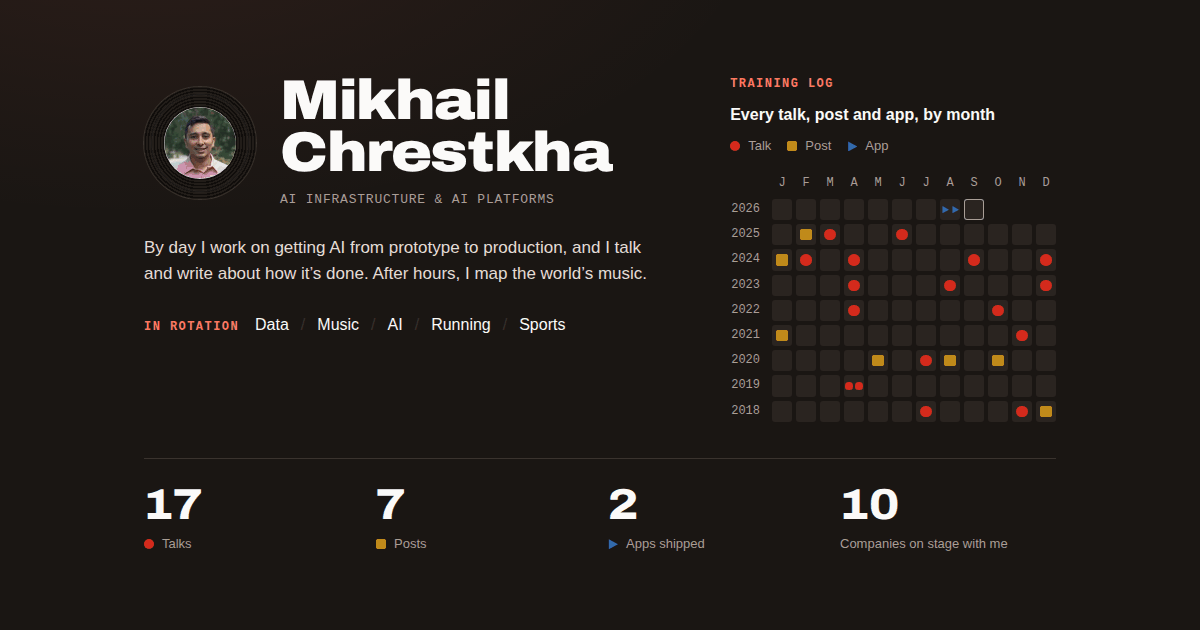
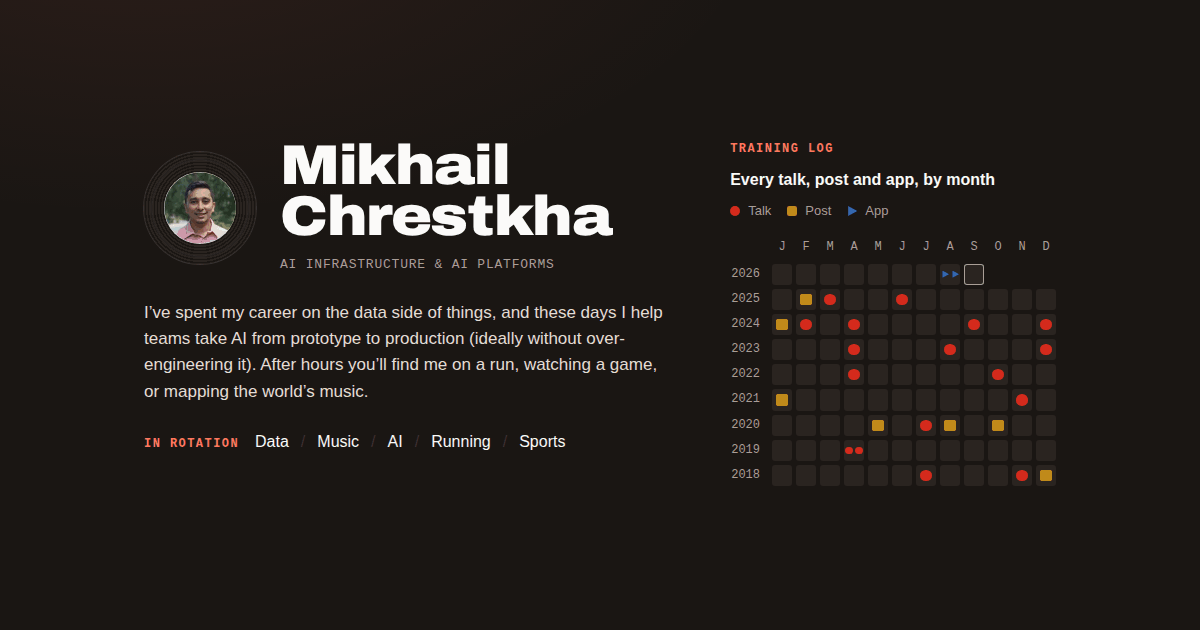
Drop the totals and the filter; write the copy in my own voice
- The stat line is gone from the stage, and the Talks & writing line no
  longer leads with counts. It now names both kinds with their marks
  (● talks and ■ posts since 2018), so the coloured type markers in the list
  stay keyed without a filter.
- The All/Talks/Posts filter and its CSS are gone; every entry keeps its
  coloured type marker.
- The intro is rewritten from how I write on LinkedIn and Medium: plain,
  first person, with an aside in brackets, and my own advice about not
  over-engineering production AI. It now names running and watching a game
  alongside the music maps.
- The joining "&" in company lists is held to its neighbours so a line
  never ends on it; the front-matter one-liners get curly apostrophes.
- The link-preview card is re-rendered without the stat line.

Checked again with Jekyll 4.4 and GitHub Pages' Jekyll 3.10 (identical bar
jekyll-seo-tag's own markup), from 320px to 1440px with no horizontal
overflow, and the tooltips, keyboard focus and month-to-entry links.

Claude-Session: https://claude.ai/code/session_01R3RWYAup9Azc9xDMDqUTXQ

diff --git a/_layouts/default.html b/_layouts/default.html
@@ -19,7 +19,7 @@
     <link rel="preload" href="{{ '/assets/fonts/archivo.woff2' | relative_url }}" as="font" type="font/woff2" crossorigin>
     <style>
       /* ---------------------------------------------------------------
-         Archivo, self-hosted, for headings and figures only. Subset to
+         Archivo, self-hosted, for headings only. Subset to
          Basic Latin and pinned to one width (112, semi-expanded) with
          weight left variable from 700 to 900: 11.8 KB, down from 90 KB for
          the full family. It is the face Sound Travels and Hip Hop Lineage
@@ -137,7 +137,7 @@
       }
 
       a { color: var(--accent); }
-      a:focus-visible, input:focus-visible + label {
+      a:focus-visible {
         outline: 2px solid var(--accent);
         outline-offset: 3px;
         border-radius: 2px;
@@ -210,14 +210,12 @@
       }
       .stage .kicker { color: var(--stage-accent); }
       .stage a { color: var(--stage-ink); }
-      .stage a:focus-visible, .stage input:focus-visible + label { outline-color: var(--stage-accent); }
+      .stage a:focus-visible { outline-color: var(--stage-accent); }
 
       .stage-inner {
         display: grid;
         grid-template-columns: minmax(0, 1fr) auto;
-        grid-template-areas:
-          "who   log"
-          "stats stats";
+        grid-template-areas: "who log";
         gap: var(--space-6) var(--space-7);
         padding-block: var(--space-7) var(--space-6);
       }
@@ -467,35 +465,6 @@
       .grid td:nth-child(-n+4) .tip { left: 0; transform: none; }
       .grid td:nth-child(n+11) .tip { left: auto; right: 0; transform: none; }
 
-      /* --- the stat line ---------------------------------------------- */
-
-      .stats {
-        grid-area: stats;
-        display: grid;
-        grid-template-columns: repeat(4, minmax(0, 1fr));
-        gap: var(--space-4);
-        margin: 0;
-        padding-top: var(--space-5);
-        border-top: 1px solid var(--stage-line);
-      }
-      .stat { display: flex; flex-direction: column-reverse; }
-      .stat dd {
-        margin: 0;
-        font-family: var(--display);
-        font-weight: 800;
-        font-size: clamp(2rem, 1.5rem + 1.6vw, 2.75rem);
-        line-height: 1;
-        color: var(--stage-ink);
-      }
-      .stat dt {
-        display: flex;
-        align-items: center;
-        gap: var(--space-2);
-        margin-top: var(--space-2);
-        font-size: var(--step--1);
-        color: var(--stage-muted);
-      }
-
       /* --- sections on the page --------------------------------------- */
 
       main { padding-top: var(--space-7); }
@@ -516,6 +485,8 @@
         margin: var(--space-2) 0 0;
         color: var(--muted);
       }
+      /* A kind's mark set in running text doubles as the list's legend. */
+      .dek .dot { margin-right: 0.4em; vertical-align: 0.02em; }
 
       /* --- side projects: record sleeves ------------------------------ */
 
@@ -573,42 +544,6 @@
       }
 
       /* --- talks & writing -------------------------------------------- */
-
-      .filter {
-        position: relative;
-        display: flex;
-        flex-wrap: wrap;
-        gap: var(--space-2);
-        margin: 0 0 var(--space-5);
-        padding: 0;
-        border: 0;
-      }
-      .filter input { position: absolute; opacity: 0; pointer-events: none; }
-      .filter label {
-        display: inline-flex;
-        align-items: center;
-        gap: var(--space-2);
-        padding: var(--space-1) var(--space-3);
-        border: 1px solid var(--border);
-        border-radius: 999px;
-        background: var(--surface);
-        font-size: var(--step--1);
-        cursor: pointer;
-        user-select: none;
-      }
-      .filter label:hover { border-color: var(--muted); }
-      .filter .n { font-family: var(--mono); color: var(--muted); }
-      .filter input:checked + label {
-        background: var(--ink);
-        border-color: var(--ink);
-        color: var(--bg);
-      }
-      .filter input:checked + label .n { color: var(--border); }
-
-      .record:has(#show-talk:checked) .entry:not(.talk),
-      .record:has(#show-post:checked) .entry:not(.post),
-      .record:has(#show-talk:checked) .year:not(:has(.entry.talk)),
-      .record:has(#show-post:checked) .year:not(:has(.entry.post)) { display: none; }
 
       .year {
         display: grid;
@@ -687,7 +622,7 @@
         :root { --cell: 1.5rem; }
         .stage-inner {
           grid-template-columns: minmax(0, 1fr);
-          grid-template-areas: "who" "stats" "log";
+          grid-template-areas: "who" "log";
           gap: var(--space-6);
           padding-block: var(--space-6);
         }
@@ -708,7 +643,6 @@
         .rotation .kicker { flex-basis: 100%; margin-bottom: var(--space-1); }
         .vinyl { width: 5.5rem; height: 5.5rem; }
         .vinyl img { width: 3.5rem; height: 3.5rem; }
-        .stats { grid-template-columns: repeat(2, minmax(0, 1fr)); row-gap: var(--space-5); }
         .grid { border-spacing: 3px; margin-inline: -3px; }
         .log { position: relative; }
         .grid td { position: static; }
@@ -735,7 +669,7 @@
     {{ content }}
 
     <footer class="wrap">
-      {% if page.colophon %}<p>{{ page.colophon }}</p>{% endif %}
+      {% if page.colophon %}<p>{{ page.colophon | smartify }}</p>{% endif %}
       <p>&copy; {{ site.time | date: '%Y' }} {{ site.title }}.</p>
     </footer>
   </body>

diff --git a/_layouts/home.html b/_layouts/home.html
@@ -4,7 +4,7 @@ layout: default
 {%- comment -%}
   Everything counted or drawn on this page comes from _data/entries.yml and
   _data/apps.yml at build time. Nothing here is typed in by hand: add an entry
-  and the stat line, the training log and the list all move with it.
+  and the training log and the list both move with it.
 
   Written for the Liquid that GitHub Pages runs (Jekyll 3.10, Liquid 4.0), so
   no `find` filter: `where` + `first` does the same job.
@@ -12,8 +12,6 @@ layout: default
 
 {%- assign entries = site.data.entries -%}
 {%- assign apps = site.data.apps -%}
-{%- assign talks = entries | where: "kind", "talk" -%}
-{%- assign posts = entries | where: "kind", "post" -%}
 {%- assign companies = entries | map: "with" | compact | join: "|" | split: "|" | uniq -%}
 
 {%- comment -%} The training log spans the first talk or post to this month. {%- endcomment -%}
@@ -120,13 +118,6 @@ layout: default
         </tbody>
       </table>
     </figure>
-
-    <dl class="stats">
-      <div class="stat"><dt><i class="dot talk" aria-hidden="true"></i>Talks</dt><dd>{{ talks.size }}</dd></div>
-      <div class="stat"><dt><i class="dot post" aria-hidden="true"></i>Posts</dt><dd>{{ posts.size }}</dd></div>
-      <div class="stat"><dt><i class="dot app" aria-hidden="true"></i>Apps shipped</dt><dd>{{ apps.size }}</dd></div>
-      <div class="stat"><dt>Companies on stage with me</dt><dd>{{ companies.size }}</dd></div>
-    </dl>
   </div>
 </header>
 
@@ -137,7 +128,7 @@ layout: default
       <span class="kicker">B-sides</span>
       <h2>Side projects</h2>
       {%- if page.side_projects %}
-      <p class="dek">{{ page.side_projects }}</p>
+      <p class="dek">{{ page.side_projects | smartify }}</p>
       {%- endif %}
     </header>
     <div class="releases">
@@ -162,22 +153,13 @@ layout: default
   </section>
   {%- endif %}
 
-  <section id="talks" class="record">
+  <section id="talks">
     <header class="section-head">
       <span class="kicker">On the record</span>
       <h2>Talks &amp; writing</h2>
-      <p class="dek">{{ talks.size }} talks and {{ posts.size }} posts since {{ y0 }}{% if companies.size > 0 %}, on stage with {% include and-list.html items=companies %}{% endif %}.</p>
+      <p class="dek"><i class="dot talk" aria-hidden="true"></i>Talks and <i class="dot post" aria-hidden="true"></i>posts since {{ y0 }}{% if companies.size > 0 %}, often sharing the stage with {% include and-list.html items=companies %}{% endif %}.</p>
     </header>
 
-    <fieldset class="filter">
-      <legend class="sr-only">Show</legend>
-      <input type="radio" name="show" id="show-all" checked>
-      <label for="show-all">All <span class="n">{{ entries.size }}</span></label>
-      <input type="radio" name="show" id="show-talk">
-      <label for="show-talk"><i class="dot talk" aria-hidden="true"></i>Talks <span class="n">{{ talks.size }}</span></label>
-      <input type="radio" name="show" id="show-post">
-      <label for="show-post"><i class="dot post" aria-hidden="true"></i>Posts <span class="n">{{ posts.size }}</span></label>
-    </fieldset>
 
     {%- assign years = entries | group_by_exp: "e", "e.date | date: '%Y'" | sort: "name" | reverse %}
     {%- for year in years %}

diff --git a/_includes/and-list.html b/_includes/and-list.html
@@ -1,8 +1,9 @@
 {%- comment -%}
   Joins include.items as "A", "A & B" or "A, B & C" — the house style the
   notes were written in. Items are escaped; "Weights & Biases" is one item.
+  The joining "&" is held to its neighbours so a line never ends on it.
 {%- endcomment -%}
 {%- for item in include.items -%}
-  {%- if forloop.last and forloop.length > 1 %} &amp; {% elsif forloop.index > 1 %}, {% endif -%}
+  {%- if forloop.last and forloop.length > 1 %}&nbsp;&amp;&nbsp;{% elsif forloop.index > 1 %}, {% endif -%}
   {{- item | escape -}}
 {%- endfor -%}

diff --git a/README.md b/README.md
@@ -7,8 +7,8 @@ served by GitHub Pages.
 ## Adding something
 
 Both lists are data, not markup. Nothing below needs HTML or CSS, and nothing
-on the page is counted by hand: the stat line, the training log and the list
-all move with the data.
+on the page is drawn by hand: the training log and the list both move with the
+data.
 
 **A talk, post or session** goes at the top of [`_data/entries.yml`](_data/entries.yml):
 
@@ -27,10 +27,10 @@ all move with the data.
 
 `date` drives the displayed date, the year heading and the entry's square in
 the training log, so the page stays sorted and grouped by construction — there
-is no year heading to add by hand. `kind` sets the entry's colour and shape and
-which count it adds to; a `project` is listed but kept out of the log. Each
-company in `with` is joined into "with A, B & C" under the title and counted
-once in "Companies on stage with me".
+is no year heading to add by hand. `kind` sets the entry's colour and shape; a
+`project` is listed but kept out of the log. Each company in `with` is joined
+into "with A, B & C" under the title, and named once in the line under the
+Talks & writing heading.
 
 **An app** goes in [`_data/apps.yml`](_data/apps.yml), same idea: `name`, `url`,
 an optional one-line `tagline`, a `description`, `released` (the day the first
@@ -69,8 +69,8 @@ stylesheet costs a round trip and saves nothing.
 ## The design
 
 The page opens on **the stage**, one dark band whose ground is the page's own
-ink: the name, the intro, the five things in rotation, the training log and
-the stat line. Everything below it is the light page. It is a fixed part of
+ink: the name, the intro, the five things in rotation and the training log.
+Everything below it is the light page. It is a fixed part of
 the design, not a dark mode — everyone sees the same page.
 
 **The training log** is one square per month, the way a running log or a
@@ -83,7 +83,8 @@ chart. On load the marks light up in the order they happened, unless the
 reader has asked for reduced motion.
 
 **Colour is measured, not eyeballed.** Colour, type and space are tokens at
-the top of the `<style>` block, and nothing below it invents a value. Text
+the top of the `<style>` block, and nothing below it invents a value (the few
+translucent tints are those colours at low opacity). Text
 clears WCAG AA (4.5:1) everywhere and body copy clears AAA (7:1), on every
 surface it sits on. The three mark colours — talk, post, app — take their hues
 from the two apps (Sound Travels' red and gold, Hip Hop Lineage's A-train
@@ -92,16 +93,16 @@ validated as a categorical palette over all pairs: lightness band, chroma,
 colour-blind separation (worst protan/deutan ΔE 12.7 on the page, 9.9 on the
 stage, against a target of 8), normal-vision separation, and 3:1 contrast
 against its surface. Colour is never the only cue either: talks are circles,
-posts are squares, apps are ▶.
+posts are squares, apps are ▶. The list's markers are keyed in the line under
+its heading, which names both kinds with their marks.
 
-**Type.** Body text is the system font. Headings and figures are Archivo — the
+**Type.** Body text is the system font. Headings are Archivo — the
 face Sound Travels and Hip Hop Lineage set their titles in, so the three read
 as one body of work — self-hosted, subset to Basic Latin and pinned to a single
 width with only weight left variable: 11.8 KB, down from 90 KB for the family.
 
-**No JavaScript** beyond analytics. The tooltips and the Talks/Posts filter are
-CSS: the filter is three radio buttons and `:has()`, and a browser without
-`:has()` simply shows everything.
+**No JavaScript** beyond analytics. The training log's tooltips are CSS, and
+on a touch screen a tap on a month simply jumps to its entry.
 
 **Images are most of the performance budget**, so they are sized for where they
 are displayed: the avatar is served at 144px for a 72px slot (WebP, ~4 KB)
@@ -110,8 +111,8 @@ rather than at its original 837px (699 KB). A first visit downloads about
 you add a screenshot, resize it first.
 
 **The link-preview card** (`images/og.png`, 1200 × 630) is a screenshot of the
-stage, rendered from the built page, reduced to 256 colours (39 KB). Its
-numbers are a picture, so retake it when the stat line changes.
+stage, rendered from the built page, reduced to 256 colours (39 KB). The log
+in it is a picture, so retake it now and then as the real one fills in.
 
 ## Local preview
 

diff --git a/index.md b/index.md
@@ -14,11 +14,13 @@ image:
 rotation: [Data, Music, AI, Running, Sports]
 
 # One line under the Side projects heading.
-side_projects: "Two maps of the world's music: what's playing now, and where it came from."
+side_projects: "Two maps of the world's music: what's playing right now, and where it all came from."
 
 # A line above the copyright in the footer.
-colophon: "The numbers and the training log up top are counted from the lists on this page every time the site builds."
+colophon: "The training log up top is drawn from the lists on this page every time the site builds."
 ---
 
-By day I work on getting AI from prototype to production, and I talk and
-write about how it's done. After hours, I map the world's music.
+I've spent my career on the data side of things, and these days I help teams
+take AI from prototype to production (ideally without over-engineering it).
+After hours you'll find me on a run, watching a game, or mapping the world's
+music.
